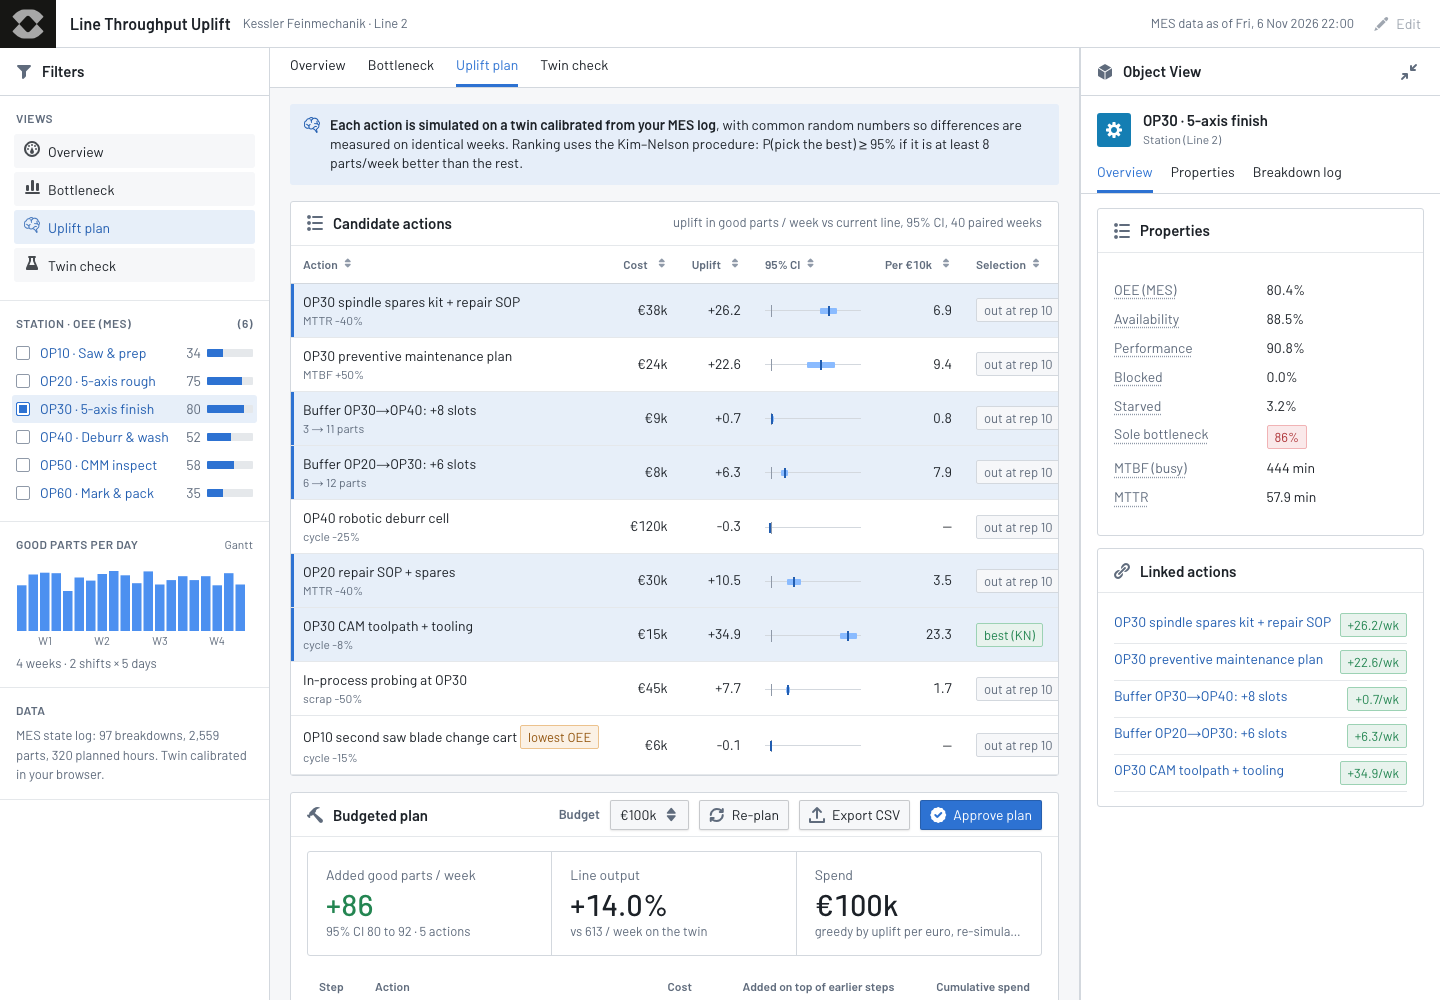
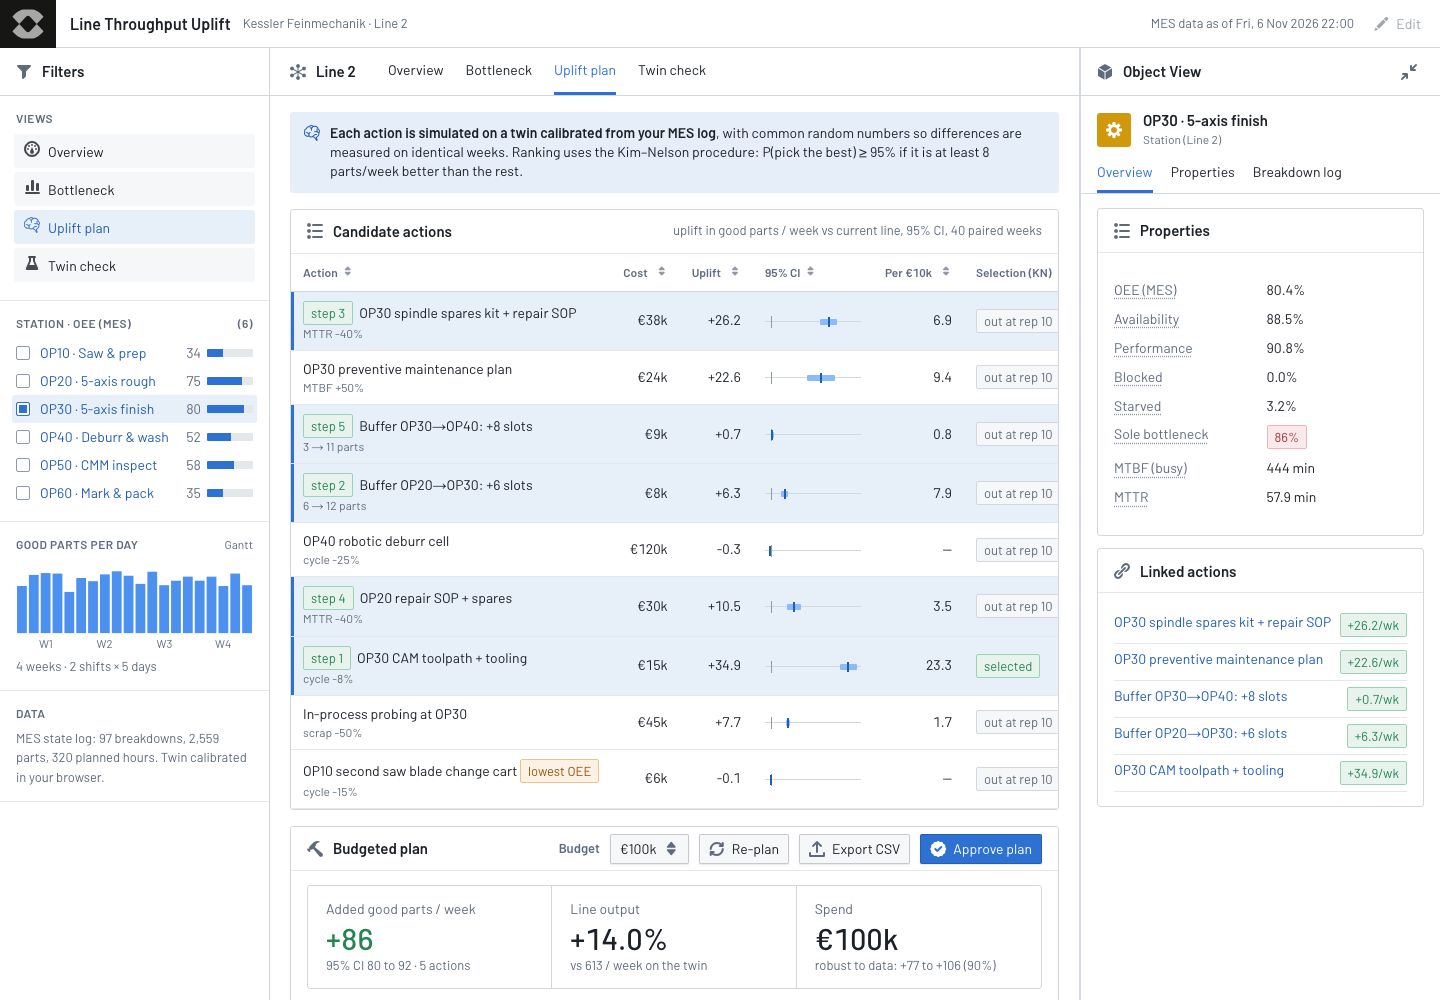
Decision robustness under parameter uncertainty (plausible twins); README results

diff --git a/app.js b/app.js
@@ -169,7 +169,7 @@ function plan(r) {
   <div class="c"><div class="metrics" style="grid-template-columns:repeat(3,minmax(0,1fr));margin-bottom:12px">
     <div class="metric"><label>Added good parts / week</label><div class="v green">+${P.uplift.toFixed(0)}</div><div class="s">95% CI ${P.lo.toFixed(0)} to ${P.hi.toFixed(0)} · ${P.ids.length} actions</div></div>
     <div class="metric"><label>Line output</label><div class="v">+${pct(P.pct, 1)}</div><div class="s">vs ${R.plan.baseMean.toFixed(0)} / week on the twin</div></div>
-    <div class="metric"><label>Spend</label><div class="v">${eur(P.spent)}</div><div class="s">greedy by uplift per euro, re-simulated each step</div></div></div>
+    <div class="metric"><label>Spend</label><div class="v">${eur(P.spent)}</div><div class="s">${live ? 'greedy by uplift per euro, re-simulated' : `robust to data: +${R.robust.p05.toFixed(0)} to +${R.robust.p95.toFixed(0)} (90%)`}</div></div></div>
   <table class="ot" aria-label="Plan steps"><thead><tr><th>Step</th><th>Action</th><th class="num">Cost</th><th class="num">Added on top of earlier steps</th><th class="num">Cumulative spend</th></tr></thead><tbody>${steps || '<tr><td colspan="5" style="color:var(--gray1)">No action fits this budget with a positive lower confidence bound.</td></tr>'}</tbody></table>
   ${st.workorders.length ? `<div class="mlabel" style="margin-top:16px">Work orders</div><table class="ot"><thead><tr><th>ID</th><th>Action</th><th>Owner</th><th>Status</th></tr></thead><tbody>${st.workorders.map((w) => `<tr><td>${w.id}</td><td>${esc(w.title)}</td><td>${esc(w.owner)}</td><td><span class="tag blue">${w.status}</span></td></tr>`).join('')}</tbody></table>` : ''}
   </div></div>`;
@@ -186,6 +186,12 @@ function twin() {
     <div class="metric"><label>Twin good parts / week</label><div class="v">${R.twinWeeklyMean.toFixed(0)}</div><div class="s">sd ${R.twinWeeklySd.toFixed(0)} over ${R.reps} simulated weeks (${pct(R.twinWeeklyMean / R.observedWeeklyMean - 1)})</div></div>
     <div class="metric"><label>Plan on the hidden “true” line</label><div class="v green">+${R.truthCheck.uplift.toFixed(0)}</div><div class="s">twin predicted +${R.plan.uplift.toFixed(0)} (CI ${R.plan.lo.toFixed(0)}–${R.plan.hi.toFixed(0)}): conservative</div></div>
   </div>
+  <div class="sec"><div class="h">${ic('random')}<span class="grow">Decision robustness under parameter uncertainty</span><small>${R.robust.B} plausible twins drawn from the calibration likelihood</small></div><div class="c">
+    <div class="metrics" style="grid-template-columns:repeat(3,minmax(0,1fr));margin:0">
+      <div class="metric"><label>Plan uplift, 90% interval</label><div class="v">+${R.robust.p05.toFixed(0)} to +${R.robust.p95.toFixed(0)}</div><div class="s">covers the true +${R.truthCheck.uplift.toFixed(0)}; simulation-only CI did not</div></div>
+      <div class="metric"><label>${R.kn.best} still the best single action</label><div class="v">${pct(R.robust.bestShare[R.kn.best], 0)}</div><div class="s">of plausible twins (${Object.entries(R.robust.bestShare).filter(([k, v]) => v > 0 && k !== R.kn.best).map(([k, v]) => `${k} ${pct(v, 0)}`).join(', ')})</div></div>
+      <div class="metric"><label>Weakest link in the data</label><div class="v">${R.constraint.id} MTBF</div><div class="s">${app.cal.find((c) => c.id === R.constraint.id).failures} breakdowns logged; more weeks narrow this most</div></div>
+    </div></div></div>
   <div class="sec"><div class="h">${ic('derive-column')}<span class="grow">Calibrated parameters</span><small>MTBF 95% interval from the χ² likelihood</small></div><div style="overflow:auto"><table class="ot"><thead><tr><th>Station</th><th class="num">Cycle (mean)</th><th class="num">Cycle CV</th><th class="num">Breakdowns</th><th class="num">MTBF, busy min</th><th class="num">MTTR</th></tr></thead><tbody>${rows}</tbody></table></div></div>
   <div class="foot">Truth check: the demo's log was generated from a hidden parameter set (scripts/generate.mjs). Applying the approved plan to that hidden line on fresh random weeks gives +${R.truthCheck.uplift.toFixed(1)} parts/week (95% CI ${R.truthCheck.lo.toFixed(1)}–${R.truthCheck.hi.toFixed(1)}), above the twin's estimate: 4 weeks of data understate how often ${R.constraint.id} fails.</div>`;
 }

diff --git a/src/line.js b/src/line.js
@@ -282,3 +282,51 @@ export function greedyPlan(line, actions, budget, { reps = 40, seed0 = 7000 } = 
 export function toCSV(rows) {
   return rows.map((r) => r.map((x) => (typeof x === 'string' && /[",\n]/.test(x) ? `"${x.replace(/"/g, '""')}"` : x)).join(',')).join('\n');
 }
+
+// ---------- input uncertainty (parameter uncertainty from a short log) ----------
+// Gamma(shape k) sampler (Marsaglia-Tsang)
+export function gammaSample(k, r) {
+  if (k < 1) return gammaSample(k + 1, r) * Math.pow(r(), 1 / k);
+  const d = k - 1 / 3, c = 1 / Math.sqrt(9 * d);
+  for (;;) {
+    let x, v;
+    do { x = r.normal(); v = 1 + c * x; } while (v <= 0);
+    v = v * v * v; const u = r();
+    if (u < 1 - 0.0331 * x ** 4 || Math.log(u) < 0.5 * x * x + d * (1 - v + Math.log(v))) return d * v;
+  }
+}
+
+// One plausible twin: failure rate ~ Gamma(n_fail, busy) posterior (Jeffreys-ish, n>=1),
+// repair mean by bootstrap of observed repairs, cycle mean ~ Normal(mean, sd/sqrt(n)).
+export function plausibleTwin(twin, stations, r) {
+  const T = cloneLine(twin);
+  T.stations.forEach((s, i) => {
+    const d = stations[i]; const nf = d.failures.length;
+    const rate = gammaSample(Math.max(nf, 1) + 0.5, r) / d.busyMin;
+    s.mtbf = 1 / rate;
+    if (nf) { let sum = 0; for (let j = 0; j < nf; j++) sum += d.failures[r.int(nf)].dur; s.mttr = sum / nf; }
+    const se = (s.cv * s.cycle) / Math.sqrt(d.cycleN);
+    s.cycle = s.cycle + se * r.normal();
+  });
+  return T;
+}
+
+// Robustness of a decision under parameter uncertainty: for B plausible twins, the plan's
+// uplift (CRN, `reps` weeks each) and which single action ranks first.
+export function robustness(twin, stations, actions, planIds, { B = 40, reps = 8, seed = 99 } = {}) {
+  const r = rng(seed);
+  const uplifts = [], bestCount = Object.fromEntries(actions.map((a) => [a.id, 0]));
+  const planActs = actions.filter((a) => planIds.includes(a.id));
+  for (let b = 0; b < B; b++) {
+    const T = plausibleTwin(twin, stations, r);
+    const base = replicate(T, reps, { seed0: 40000 + b * 100 });
+    const withPlan = replicate(applyActions(T, planActs), reps, { seed0: 40000 + b * 100 });
+    uplifts.push(mean(withPlan) - mean(base));
+    let best = null, bestV = -Infinity;
+    for (const a of actions) { const v = mean(replicate(applyActions(T, [a]), reps, { seed0: 40000 + b * 100 })) - mean(base); if (v > bestV) { bestV = v; best = a.id; } }
+    bestCount[best]++;
+  }
+  const s = [...uplifts].sort((x, y) => x - y);
+  const q = (p) => s[Math.min(s.length - 1, Math.max(0, Math.round(p * (s.length - 1))))];
+  return { B, reps, uplift: { mean: mean(uplifts), p05: q(0.05), p95: q(0.95) }, bestShare: Object.fromEntries(Object.entries(bestCount).map(([k, v]) => [k, v / B])), uplifts };
+}

diff --git a/README.md b/README.md
@@ -21,6 +21,7 @@ Onodrim buys specialist European manufacturers and sends Forward Deployed Operat
 - **Bottleneck detection**: the active period method (Roser, Nakano & Tanaka, 2001): a station is active while running or down; at each moment the one with the longest ongoing active period limits the line.
 - **Ranking and selection**: the Kim-Nelson (2001) fully sequential procedure. It guarantees P(select the best) ≥ 1-α when the best action is at least δ parts/week better than the rest (α = 5%, δ = 8). A randomized test checks the guarantee empirically.
 - **Plan**: greedy by uplift per €10k, re-simulated at every step on top of what is already chosen, keeping only steps whose 95% lower bound is positive.
+- **Decision robustness (input uncertainty)**: 4 weeks of log pin the parameters down only loosely. The app draws 60 plausible twins (failure rate from its Gamma posterior, repair mean by bootstrap, cycle mean from its sampling error), re-runs the plan and the single-action ranking on each, and reports the plan's 90% interval and how often the chosen action stays best. The simulation-only CI (80-92) missed the hidden line's true effect (+98); the input-uncertainty interval (77-106) covers it.
 
 ## Results (`node scripts/generate.mjs`, seeded, deterministic)
 
@@ -35,14 +36,16 @@ Onodrim buys specialist European manufacturers and sends Forward Deployed Operat
 | €120k robotic deburr cell (visibly slow station) | -0.3 parts/week (CI -0.7 to 0.1) |
 | **€100k plan** (A7, A4, A1, A6, A3) | **+85.7 parts/week, +14.0% (CI 79.8-91.6)** |
 | Same plan on the hidden true line (fresh weeks) | +98.5 parts/week, +16.9% (CI 92.9-104.0) |
+| Plan uplift with parameter uncertainty (60 plausible twins) | 90% interval +76.5 to +105.5 (covers the true +98.5) |
+| A7 still the best single action across plausible twins | 82% (A1 10%, A2 8%) |
 
 ## Tests
 
 ```
-node --test tests/*.test.mjs   # 13 tests, ~1.5 s
+node --test tests/*.test.mjs   # 15 tests, ~3 s
 ```
 
-Deterministic line throughput equals the slowest station's rate; state accounting sums to planned time; flow conservation and buffer limits hold (randomized buffers); MLE calibration recovers the true parameters from a long log; the active period method finds a planted bottleneck; CRN gives exactly zero uplift for a no-op; speeding the bottleneck beats speeding a non-bottleneck; KN achieves its probability of correct selection under the least-favourable configuration (randomized, 150 trials); normal/χ² quantiles; budget respected with positive lower bounds; the headline numbers reproduce exactly from the seeded pipeline; CSV escaping. CI: `.github/workflows/test.yml`.
+Deterministic line throughput equals the slowest station's rate; state accounting sums to planned time; flow conservation and buffer limits hold (randomized buffers); MLE calibration recovers the true parameters from a long log; the active period method finds a planted bottleneck; CRN gives exactly zero uplift for a no-op; speeding the bottleneck beats speeding a non-bottleneck; KN achieves its probability of correct selection under the least-favourable configuration (randomized, 150 trials); normal/χ² quantiles; budget respected with positive lower bounds; the headline numbers reproduce exactly from the seeded pipeline; the input-uncertainty interval is wider than the simulation CI and covers the hidden line; plausible twins are centred on the calibrated failure rate (randomized); CSV escaping. CI: `.github/workflows/test.yml`.
 
 ## Limitations (honest)
 
@@ -55,7 +58,7 @@ Deterministic line throughput equals the slowest station's rate; state accountin
 
 ## Prior art and what is new
 
-Throughput bottleneck detection (active period method, turning-point and arrow-based methods from Li & Meerkov's production systems engineering), DES digital twins (Simio, FlexSim, AnyLogic), and ranking & selection (Kim-Nelson, Rinott) are established. Commercial "bottleneck analysis" exists in some MES/analytics products. The contribution here is packaging them into the workflow Onodrim's job posts describe: from a raw MES log to a costed, statistically ranked improvement plan that a Forward Deployed Operator can take to a plant director, inside the Foundry Workshop environment they already deploy. I found no public Onodrim product (the company has not announced an acquisition yet), so this is new for them by construction.
+Throughput bottleneck detection (active period method, turning-point and arrow-based methods from Li & Meerkov's production systems engineering), DES digital twins (Simio, FlexSim, AnyLogic), and ranking & selection (Kim-Nelson, Rinott) are established. Commercial "bottleneck analysis" exists in some MES/analytics products. Input-uncertainty quantification for simulation decisions is studied (Barton, Nelson and others) but rarely surfaces in plant tools. The contribution here is packaging them into the workflow Onodrim's job posts describe: from a raw MES log to a costed, statistically ranked improvement plan that a Forward Deployed Operator can take to a plant director, inside the Foundry Workshop environment they already deploy. I found no public Onodrim product (the company has not announced an acquisition yet), so this is new for them by construction.
 
 ## Run locally
 
